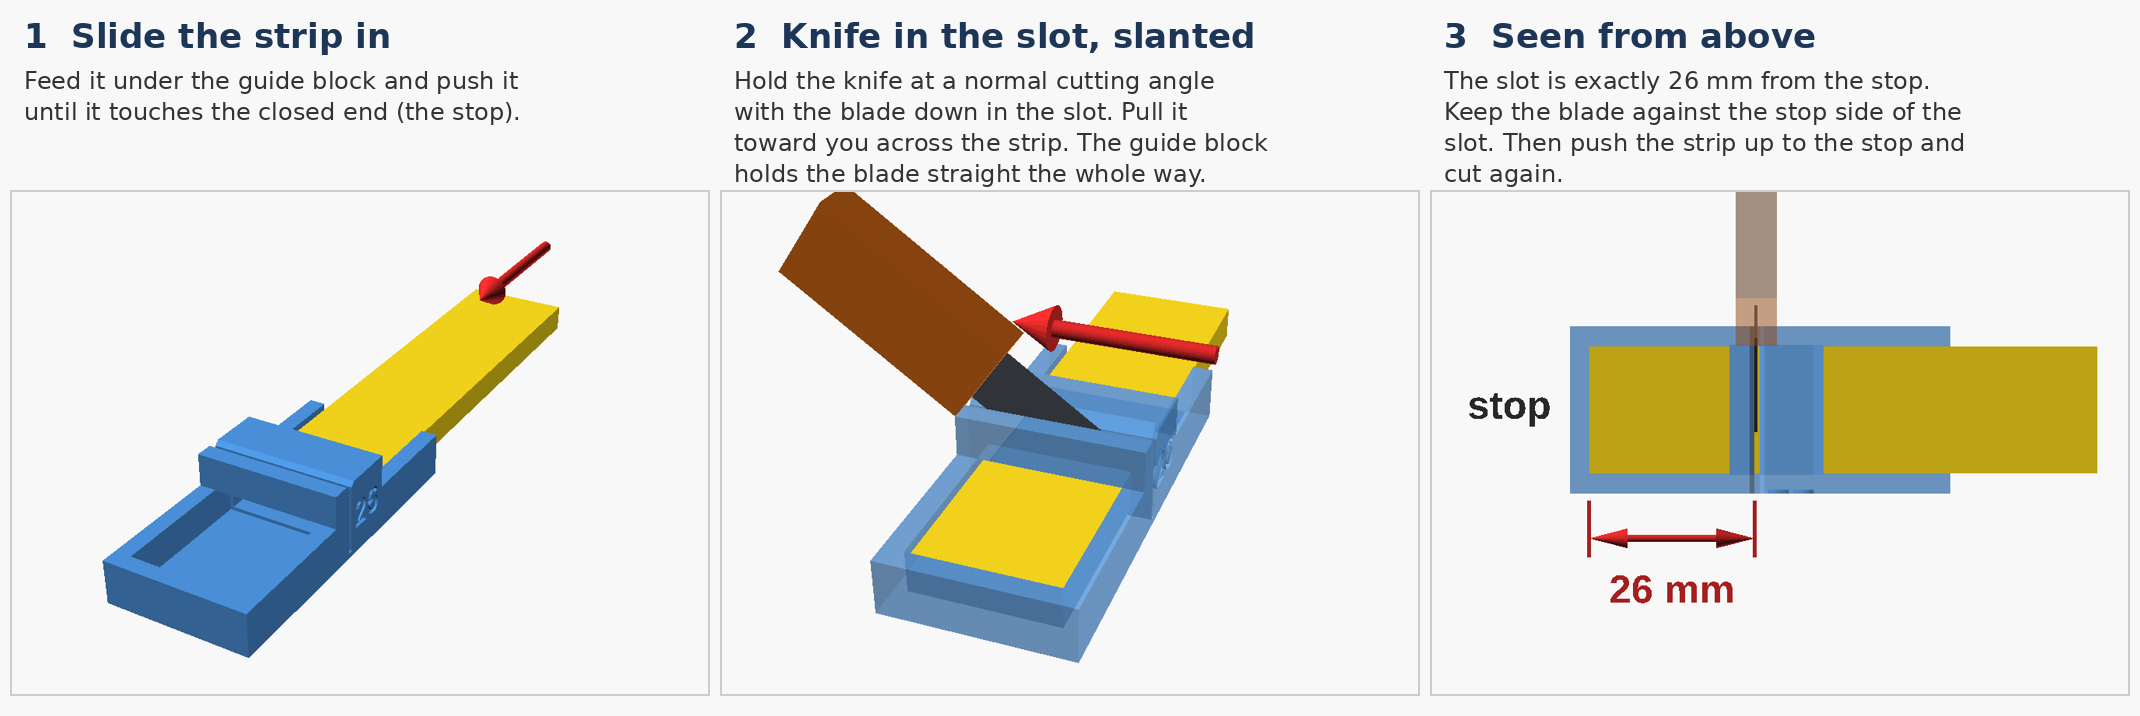
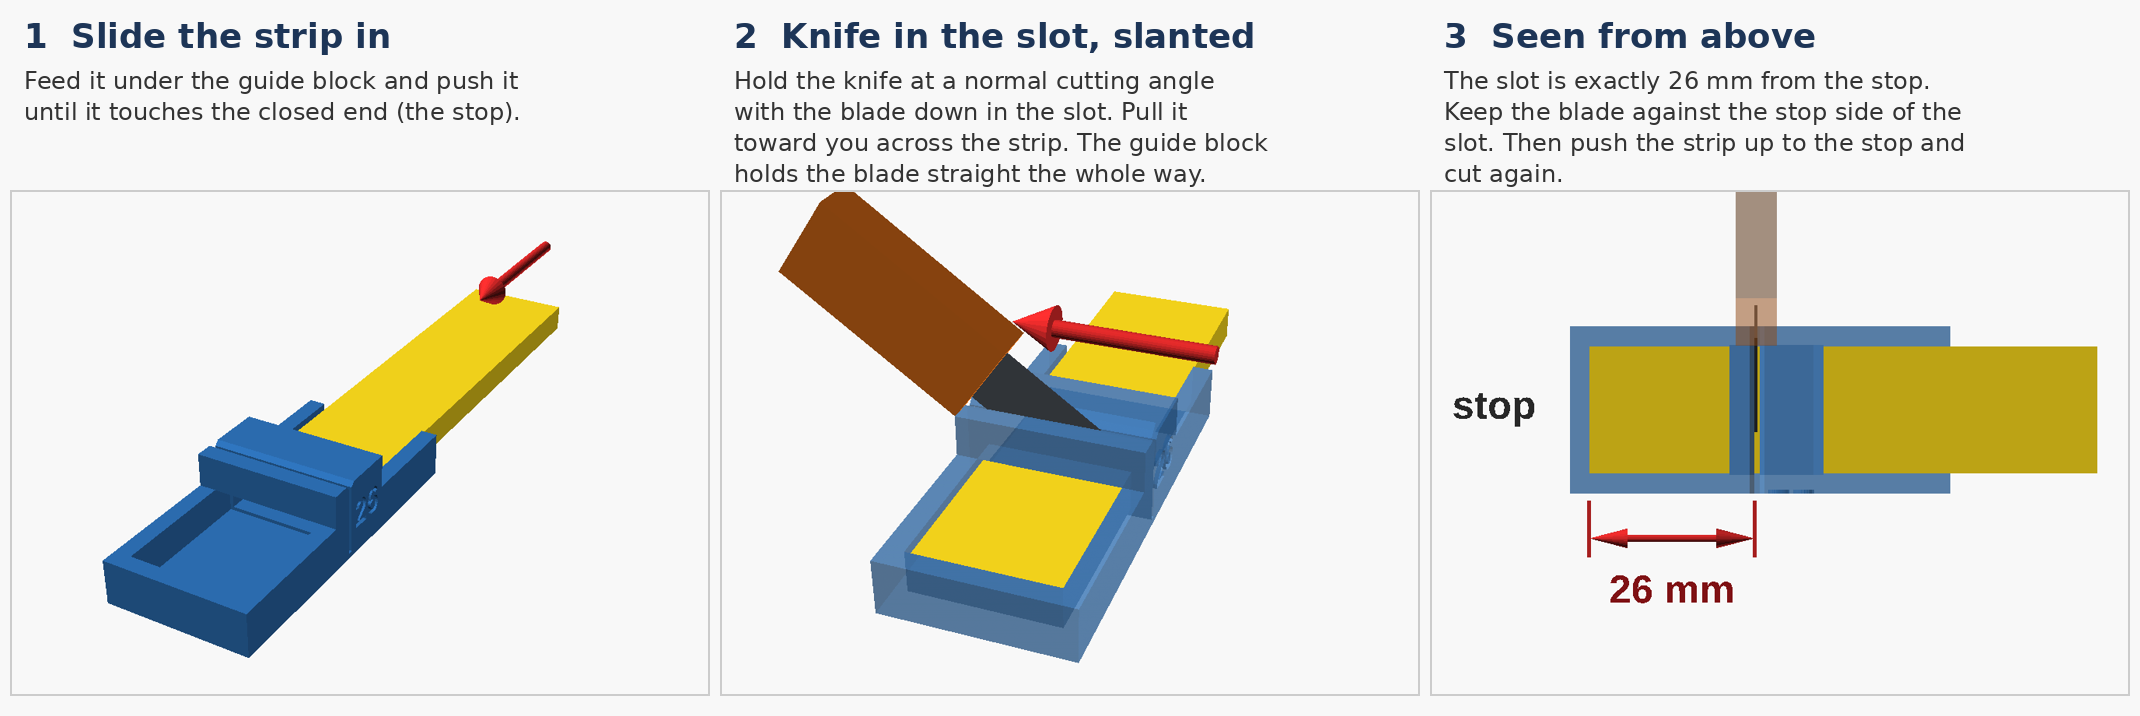
README: proper project page with renders and usage guides
Rewrites the README as a showcase: hero render, features, picture
guides for cutting sponges with the jig and fitting/swapping them in
the head, squeeze variant table, print settings, file map and rebuild
steps. Render scenes move into the repo (renders/scenes.scad,
compose.py, render.sh) so every image regenerates from the STLs; stale
renders from earlier iterations are removed.

diff --git a/renders/compose.py b/renders/compose.py
@@ -1,0 +1,20 @@
+"""Lay out captioned panels side by side: compose.py OUT IMG "Heading" "Body" [IMG "Heading" "Body" ...]"""
+import sys, textwrap
+from PIL import Image, ImageDraw, ImageFont
+
+BOLD = "/usr/share/fonts/truetype/dejavu/DejaVuSans-Bold.ttf"
+REG  = "/usr/share/fonts/truetype/dejavu/DejaVuSans.ttf"
+out, args = sys.argv[1], sys.argv[2:]
+panels = [args[i:i+3] for i in range(0, len(args), 3)]
+W, H, top, gap = 700, 506, 190, 10
+img = Image.new("RGB", (len(panels)*(W + gap) + gap, H + top + 20), "#f8f8f8")
+d = ImageDraw.Draw(img)
+for i, (f, head, body) in enumerate(panels):
+    x = gap + i*(W + gap)
+    d.text((x + 14, 16), head, font=ImageFont.truetype(BOLD, 34), fill="#1d3557")
+    y = 66
+    for line in textwrap.wrap(body, 44):
+        d.text((x + 14, y), line, font=ImageFont.truetype(REG, 24), fill="#333"); y += 31
+    img.paste(Image.open(f).convert("RGB").resize((W, H)), (x, top))
+    d.rectangle([x, top, x + W - 1, top + H - 1], outline="#ccc", width=2)
+img.save(out)

diff --git a/README.md b/README.md
@@ -1,40 +1,103 @@
-# NeoSander sponge head
+# NeoSander Sponge Head
 
-A HOZO NeoSander head that holds a piece of Stedi 5 mm wet-and-dry sanding sponge (strip 80 × 20 × 5 mm).
+**A 3D-printed head that lets the HOZO NeoSander use ordinary wet-and-dry sanding sponges, plus a jig that cuts
+the sponges to size.**
 
-- **Plug:** HOZO's own geometry, imported unchanged from their open-source Flat Sanding Head ×5
-  ([MakerWorld](https://makerworld.com/en/models/2802755-hozo-neosander-flat-sanding-head-x5), head 3), cut at the
-  paddle neck. HOZO's files aren't in this repo: download the 3MF from MakerWorld into `hozo/`, then run
-  `python3 hozo/3mf_to_stl.py <extracted>/3D/Objects/object_3.model hozo/hozo_flat_head_3.stl` (unzip the 3MF first).
-  The STLs in `stl/` are ready to print without it.
-- **Pad:** cut the sponge into 26 × 20 × 5 mm pieces (three per strip). The pocket is 2.2 mm deep, so about
-  2.8 mm stands proud. The foam is held by friction; push a worn piece out through the 4 mm hole in the back.
-  Double-sided tape is the fallback.
-- **Squeeze test variants** (`stl/sponge_head_26_fit*.stl`): the pocket is undersized by `fit` in both length and
-  width. Each variant has its `fit` value engraved on the flat back. Too much squeeze makes the foam bulge.
+![Sponge head with a piece of sanding sponge fitted](renders/hero.png)
 
-  | Engraved | Pocket (mm) | Squeeze per side |
-  |---|---|---|
-  | `0`   | 26.0 × 20.0 | none (tape) |
-  | `0.2` | 25.8 × 19.8 | 0.1 |
-  | `0.4` | 25.6 × 19.6 | 0.2 |
-  | `0.6` | 25.4 × 19.4 | 0.3 |
+HOZO's own heads take small, purpose-made sanding pads. Hobby sanding sponges, like Stedi's 5 mm strips, are
+cheap, come in a wide range of grits and work wet. This head takes a piece of one of those instead.
 
-  About 1.7 g each. HOZO's own paddle weighs 1.2 g and they warn against heavy heads. `pad_len=40` (two pieces per
-  strip, 2.2 g) is available if the 26 feels too small.
-- **Cutting jig** (`stl/cut_jig_26.stl`, source `cut_jig.scad`): a mitre box. Feed the strip under the guide
-  block until it hits the stop. Put the blade in the slot, slanted like a normal cut, and pull it toward you across
-  the strip, keeping it against the slot face nearest the stop (exactly 26 mm from it). The 6 mm guide block holds
-  the blade for the whole stroke and keeps the foam flat. A floor groove lets the blade cut right through. One
-  strip gives three pieces. Picture guide: `renders/cut_jig_howto.png`. It's one piece on purpose, so the slot,
-  groove and stop can't drift apart. The block's underside is a 20 mm bridge, which prints without supports.
-- **Print:** as exported, flat face down, no supports. Same orientation as HOZO's 3MF. PETG, 5 walls, like HOZO's
-  profile.
+- **Fits like a HOZO head.** The plug is HOZO's own geometry from their open-source flat head, unchanged, so it
+  clicks into the tool the same way.
+- **Tool-free sponge swaps.** The sponge press-fits into a shallow pocket and pushes out through a hole in the back.
+- **Prints flat, no supports.** Same orientation as HOZO's heads. About 1.7 g, close to HOZO's own 1.2 g paddle,
+  so the motor isn't overloaded.
+- **Square, repeatable pieces.** A printed mitre-box jig cuts every piece to exactly 26 mm, three per strip.
+- **Parametric.** OpenSCAD, with every dimension at the top of the file.
 
-Print plate (jig + four heads): `print/neosander_test_plate.3mf`, from `print/plate.scad`. Black PETG HF,
-0.16 mm Optimal, 44 min, 14 g.
+## Using it
 
-Rebuild: `openscad -o stl/sponge_head_26_fit0.4.stl -D pad_len=26 -D fit=0.4 sponge_head.scad`. All parameters are at the top of
-`sponge_head.scad`.
+### Cut the sponge
 
-Status (2026-11-24): designed, not printed. Four squeeze variants ready to test; plug fit and grip untested.
+Cut the 80 × 20 × 5 mm strip into 26 mm pieces with the jig and a snap-off knife.
+
+![How to use the cutting jig](renders/cut_jig_howto.png)
+
+![The cutting jig with a sponge strip loaded](renders/jig.png)
+
+Extend the blade far enough to reach the floor of the jig: about two segments of an 18 mm snap-off knife. Use an
+old blade if you have one, because the grit blunts it.
+
+### Fit the sponge and sand
+
+![How to fit and swap the sponge](renders/head_howto.png)
+
+Then push the head into the NeoSander like any HOZO head. The sanding face is on the same side as the plug's peg.
+
+The sponges work wet, but keep water off the NeoSander: use a damp sponge, not a dripping one.
+
+## Squeeze test variants
+
+How tightly the pocket should grip the foam is still being tuned. Too loose and the sponge walks out under
+vibration; too tight and the foam bulges. There are four versions, each with its value engraved on the back:
+
+| Engraved | Pocket (mm) | Squeeze per side | File |
+|---|---|---|---|
+| `0`   | 26.0 × 20.0 | none (use tape) | `stl/sponge_head_26_fit0.stl` |
+| `0.2` | 25.8 × 19.8 | 0.1 mm | `stl/sponge_head_26_fit0.2.stl` |
+| `0.4` | 25.6 × 19.6 | 0.2 mm | `stl/sponge_head_26_fit0.4.stl` |
+| `0.6` | 25.4 × 19.4 | 0.3 mm | `stl/sponge_head_26_fit0.6.stl` |
+
+If none of them holds well enough, a square of thin double-sided tape on the pocket floor will.
+
+## Printing
+
+`print/neosander_test_plate.3mf` has the jig and all four heads on one plate, laid out as they print.
+
+![Print plate](renders/plate.png)
+
+| | |
+|---|---|
+| Material | PETG (Bambu PETG HF on an X1C) |
+| Layers | 0.16 mm, for the engraved text and the plug's latch |
+| Walls | Slicer default (2). HOZO prints most of its own heads this way |
+| Plate | Textured PEI |
+| Supports | None. The jig's guide block is a 20 mm bridge. |
+| Time / weight | 44 min, 14 g for the full plate |
+
+## Making changes
+
+| File | What |
+|---|---|
+| `sponge_head.scad` | The head: `pad_len`, `fit`, pocket depth, walls, push hole, label |
+| `cut_jig.scad` | The cutting jig. `piece_len` should match the head's `pad_len` |
+| `print/plate.scad` | The print plate layout |
+| `renders/render.sh` | Regenerates every image in this README from the STLs (needs OpenSCAD and Pillow) |
+| `hozo/3mf_to_stl.py` | Extracts a head mesh from HOZO's 3MF |
+
+```bash
+openscad -o stl/sponge_head_26_fit0.4.stl -D pad_len=26 -D fit=0.4 sponge_head.scad
+openscad -o stl/cut_jig_26.stl cut_jig.scad
+openscad -O export-3mf/color-mode=none -o print/neosander_test_plate.3mf print/plate.scad
+./renders/render.sh
+```
+
+Rebuilding the head needs HOZO's mesh, which isn't in this repo. Download the
+[Flat Sanding Head ×5](https://makerworld.com/en/models/2802755-hozo-neosander-flat-sanding-head-x5) 3MF from
+MakerWorld, unzip it, and run
+`python3 hozo/3mf_to_stl.py <unzipped>/3D/Objects/object_3.model hozo/hozo_flat_head_3.stl`. The STLs in `stl/`
+are ready to print without it.
+
+The pad length is a parameter. `pad_len=40` gives two pieces per strip and a 2.2 g head, if 26 mm feels too small.
+
+## Status
+
+Designed, not yet printed (2026-11-24). Still to confirm: that the plug clicks into a real NeoSander, which
+squeeze variant holds best, and how cleanly the jig cuts.
+
+## Credits
+
+The plug is HOZO's design, from their open-source
+[NeoSander Flat Sanding Head ×5](https://makerworld.com/en/models/2802755-hozo-neosander-flat-sanding-head-x5).
+HOZO's original files aren't redistributed here.
